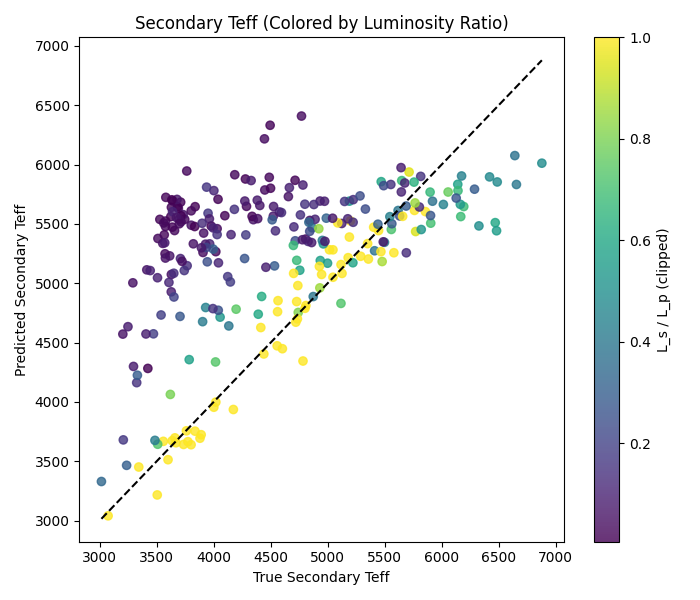
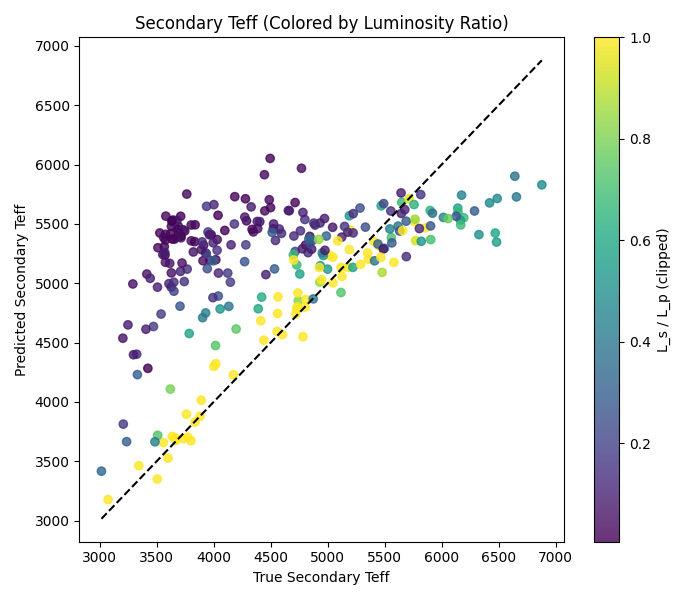
snr 5 - check filtered results folder

diff --git a/ANN/bANN.py b/ANN/bANN.py
@@ -65,7 +65,7 @@ def train_and_evaluate():
 
     X = apply_additive_noise(
         X,
-        snr=10
+        snr=5
     )
 
     print(f"\nMasked feature count: {X.shape[1]}")
